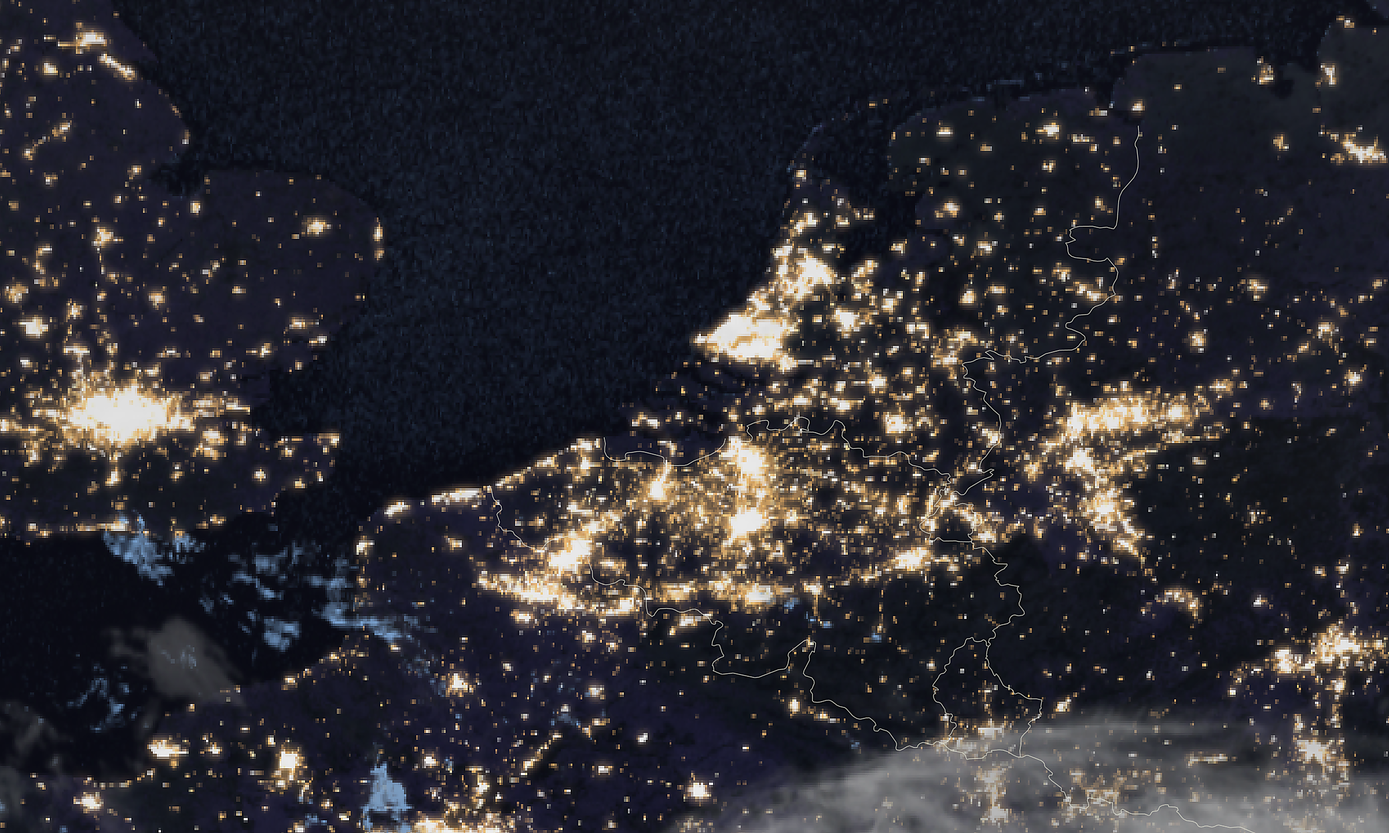
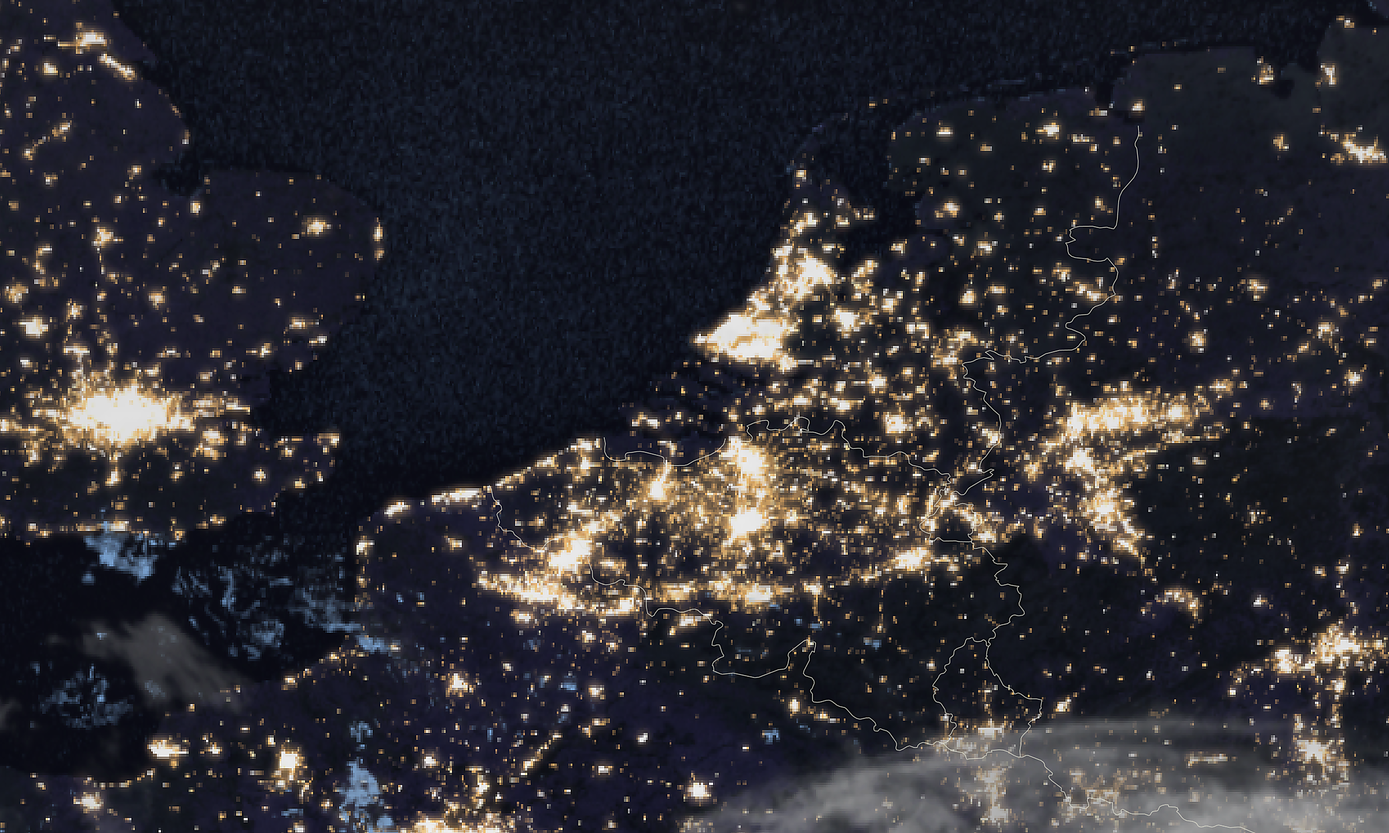
MTG Benelux satellietbeeld update 2026-04-29 00:30

diff --git a/mtg_benelux_meta.js b/mtg_benelux_meta.js
@@ -1,2 +1,2 @@
 const MTG_BENELUX_PRODUCT = "mtg_fd:rgb_geocolour";
-const MTG_BENELUX_TIJD = "2026-04-28T21:50:00Z";
+const MTG_BENELUX_TIJD = "2026-04-28T22:10:00Z";
